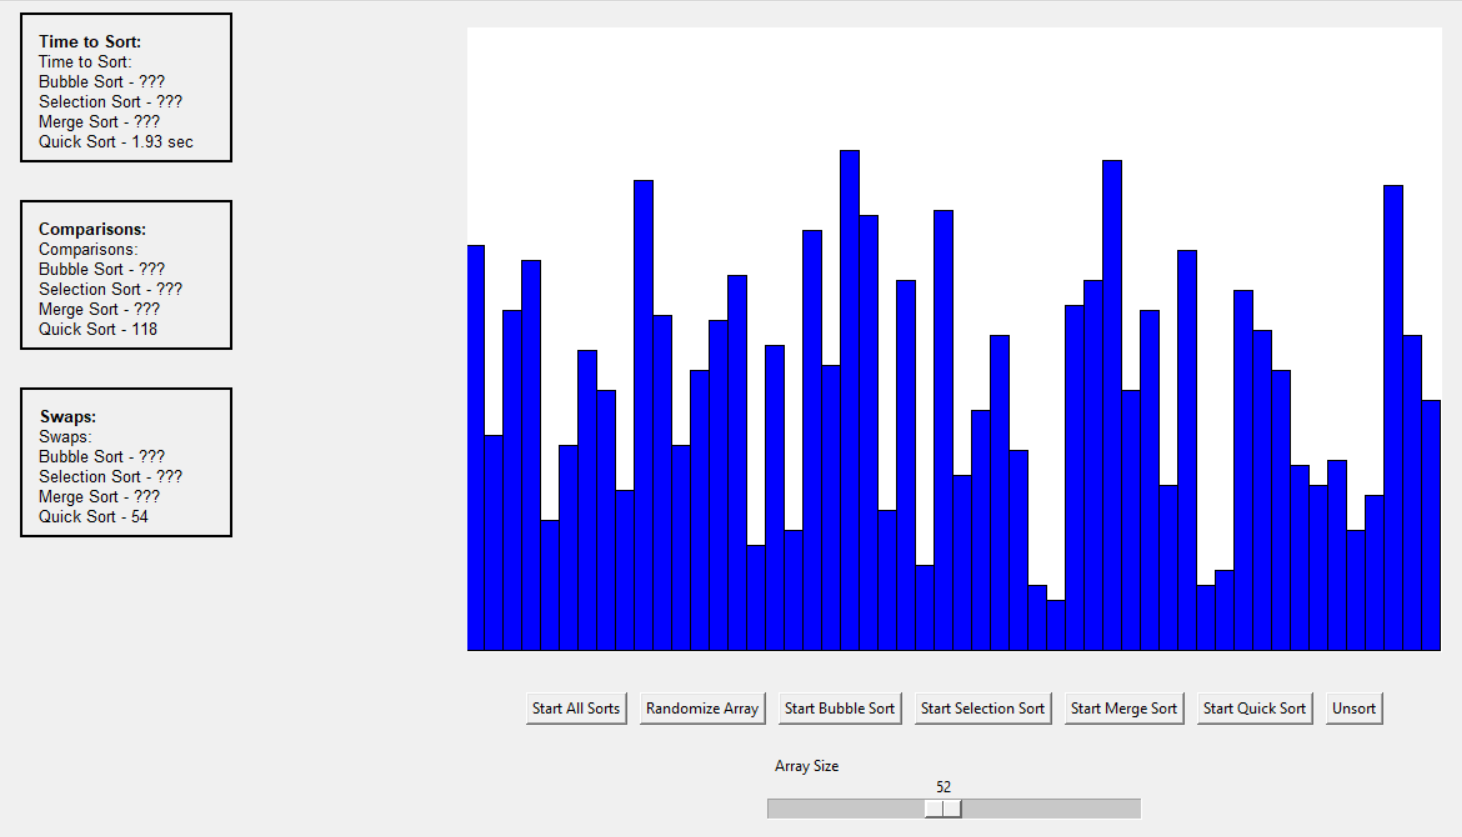
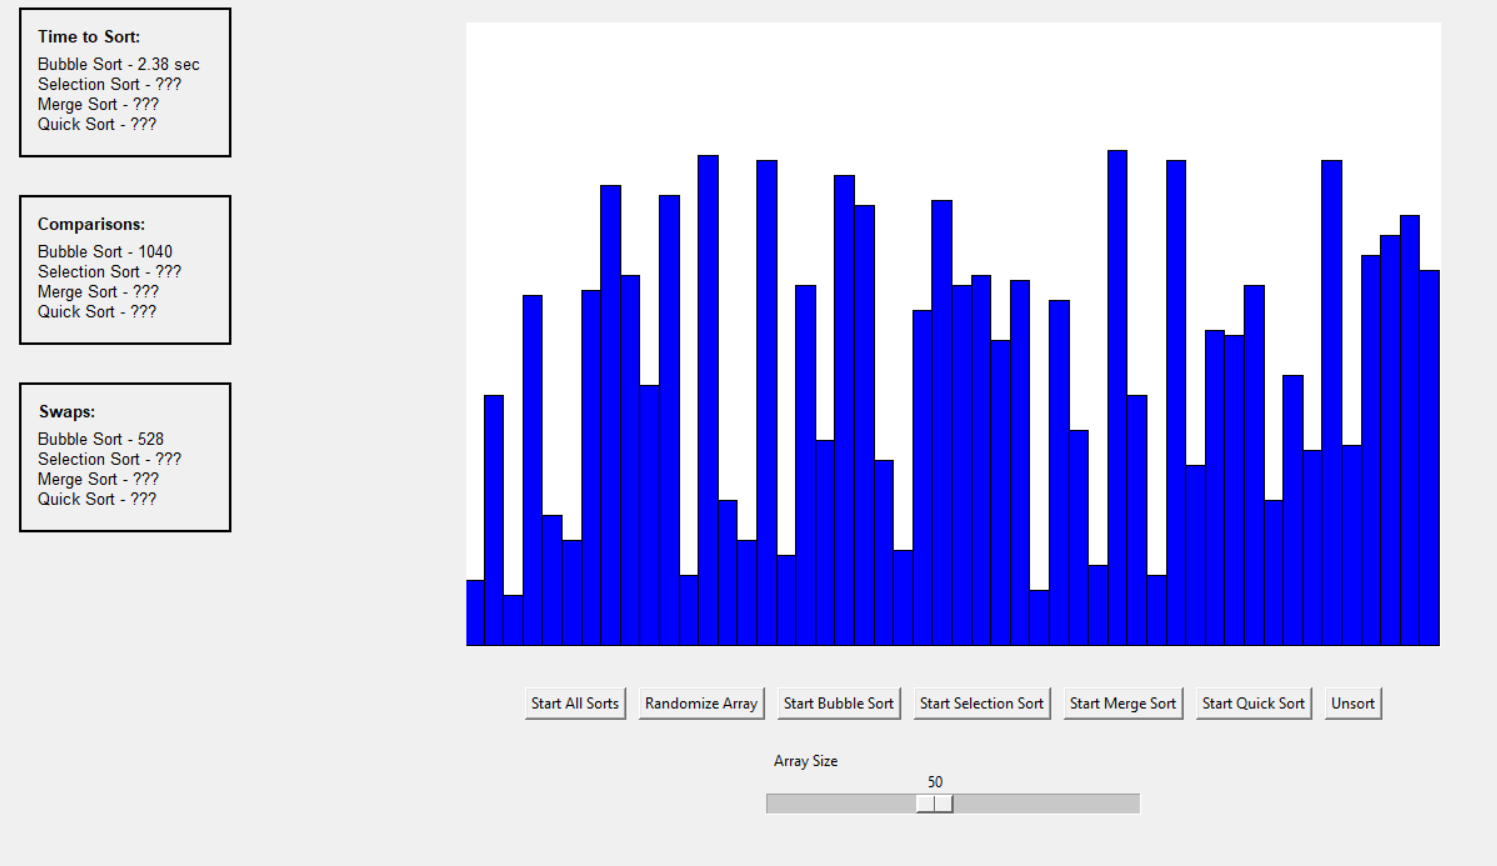
Fixed issue with title appearing mutliple times within the stats boxes

Changed region(s): [[0.3078, 0.1553, 0.985, 0.994], [0.0, 0.0, 0.1847, 0.6523]]

diff --git a/main.py b/main.py
@@ -123,21 +123,18 @@ def randomize_array():
     saved_array = array.copy()
 
     time_label.config(text=
-        "Time to Sort:\n"
         "Bubble Sort - ???\n"
         "Selection Sort - ???\n"
         "Merge Sort - ???\n"
         "Quick Sort - ???"
     )
     comparisons_label.config(text=
-        "Comparisons:\n"
         "Bubble Sort - ???\n"
         "Selection Sort - ???\n"
         "Merge Sort - ???\n"
         "Quick Sort - ???"
     )
     swaps_label.config(text=
-        "Swaps:\n"
         "Bubble Sort - ???\n"
         "Selection Sort - ???\n"
         "Merge Sort - ???\n"
